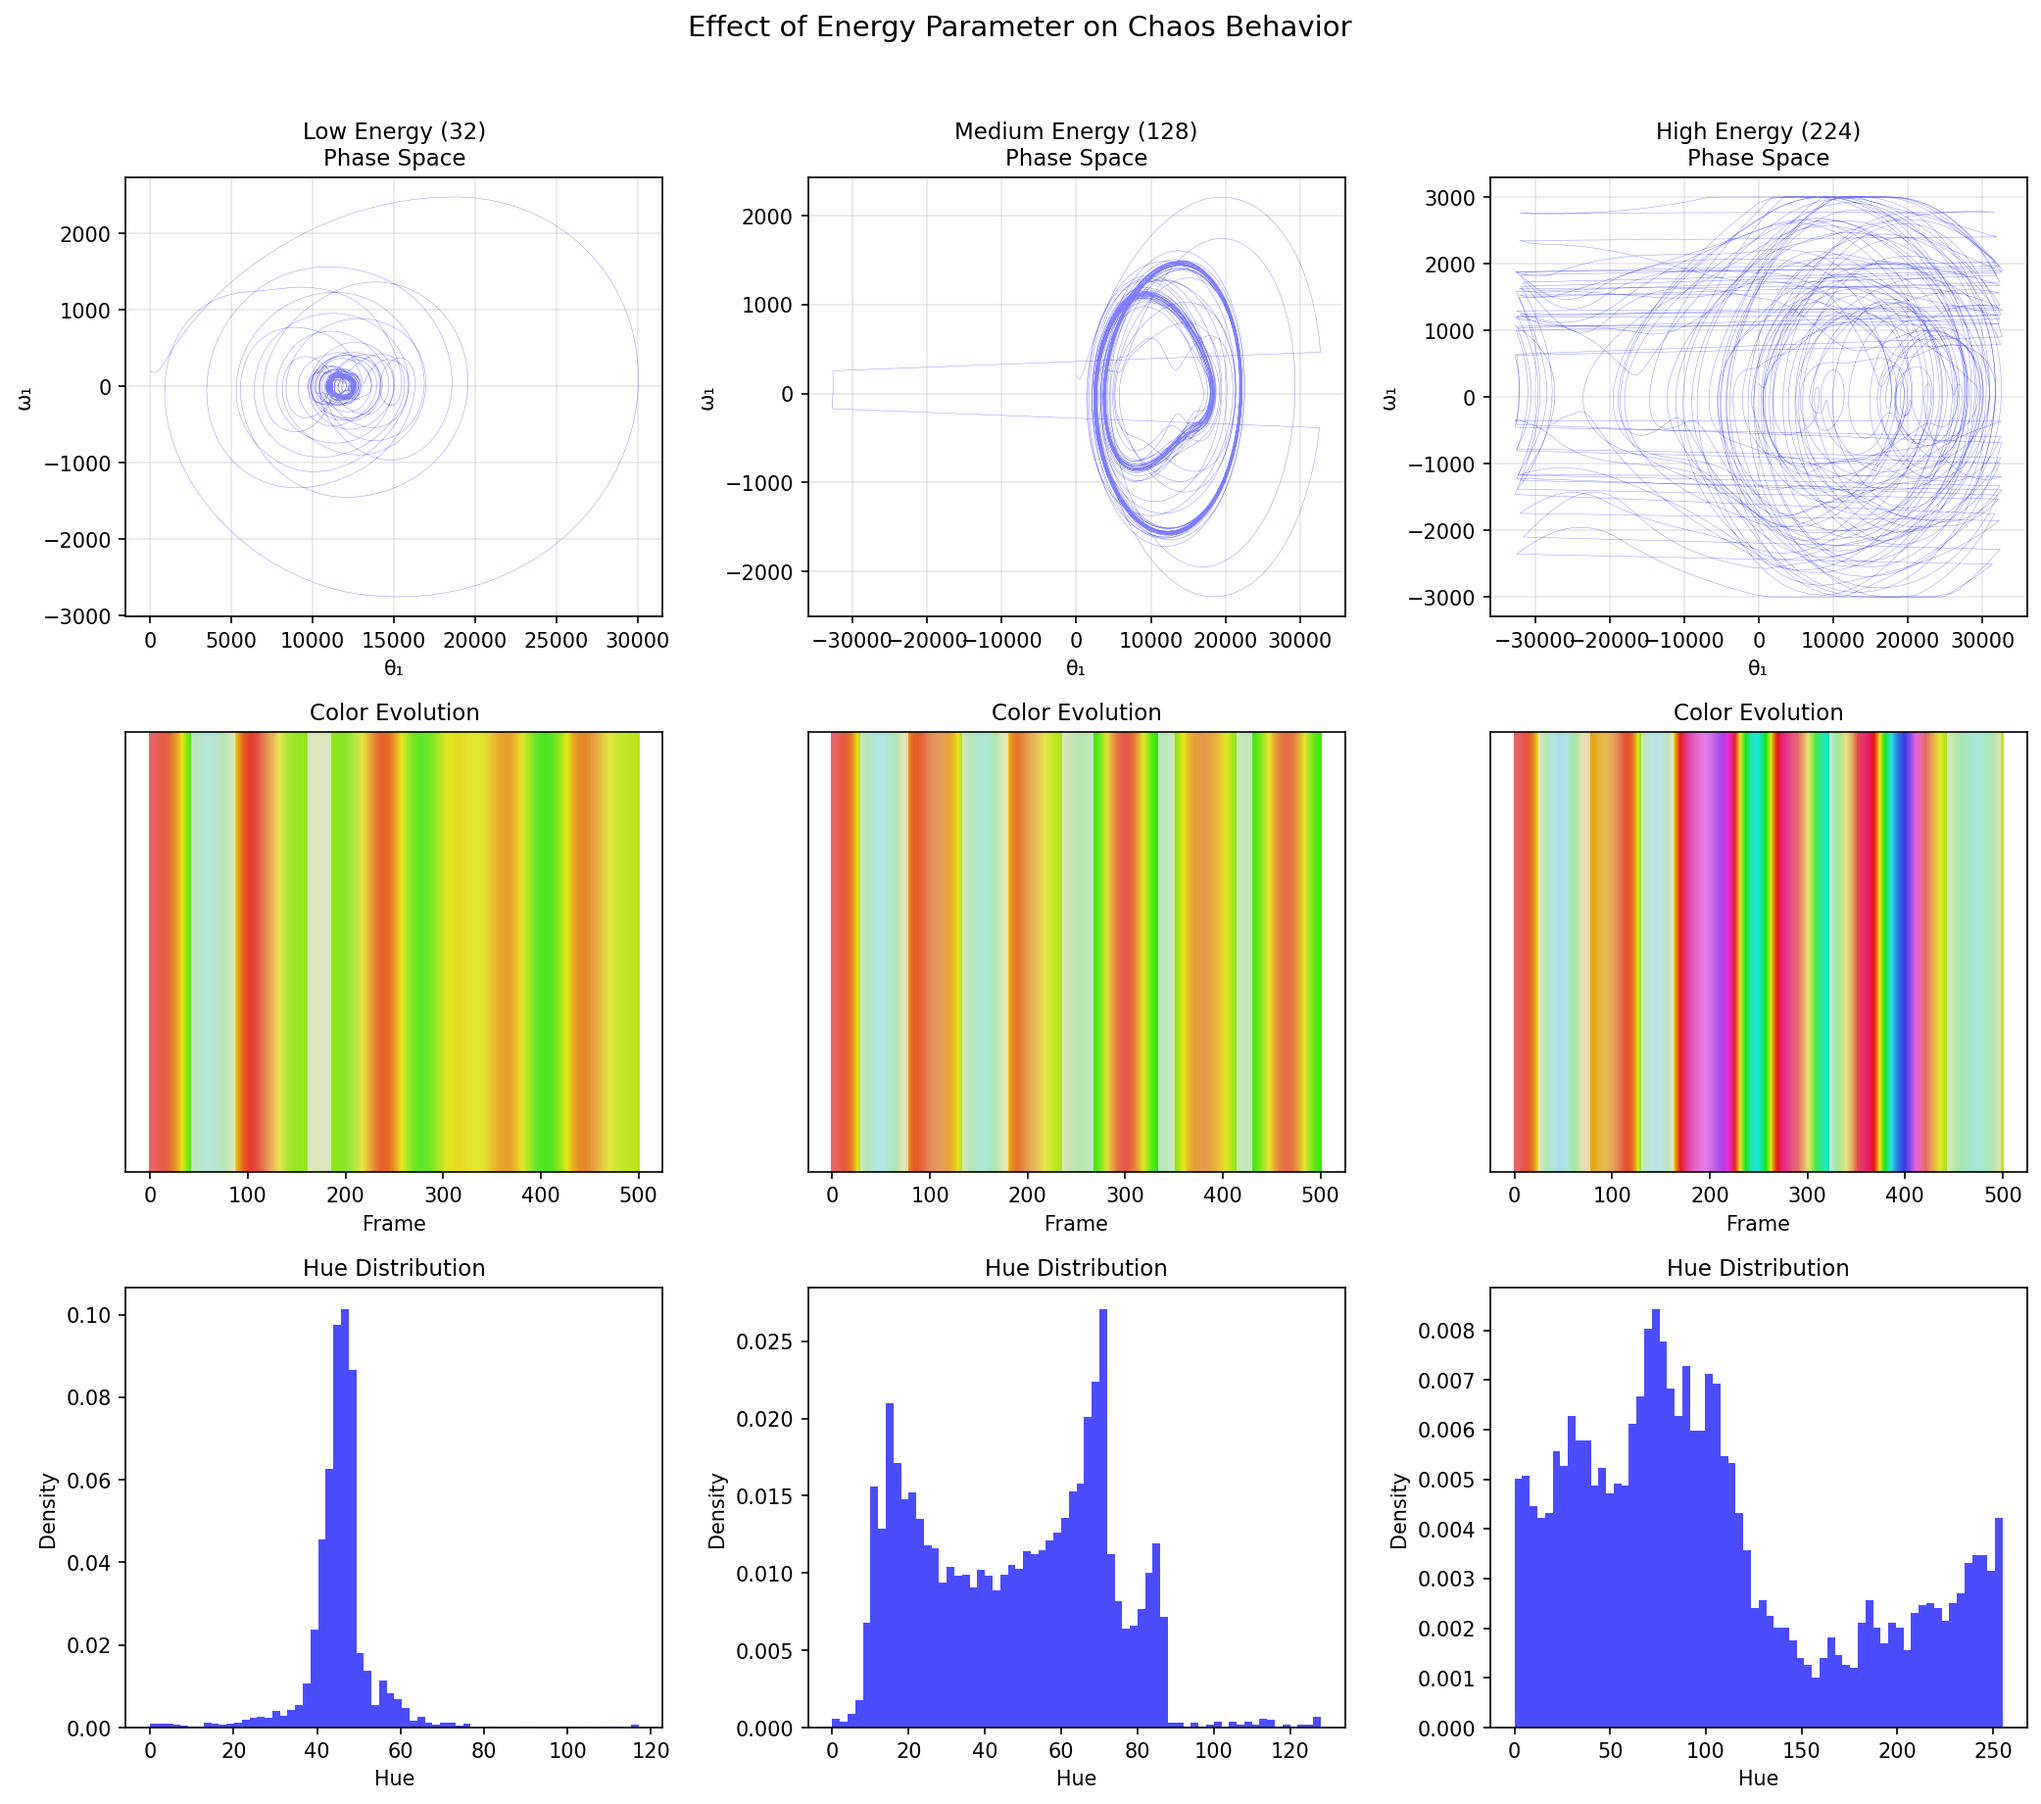
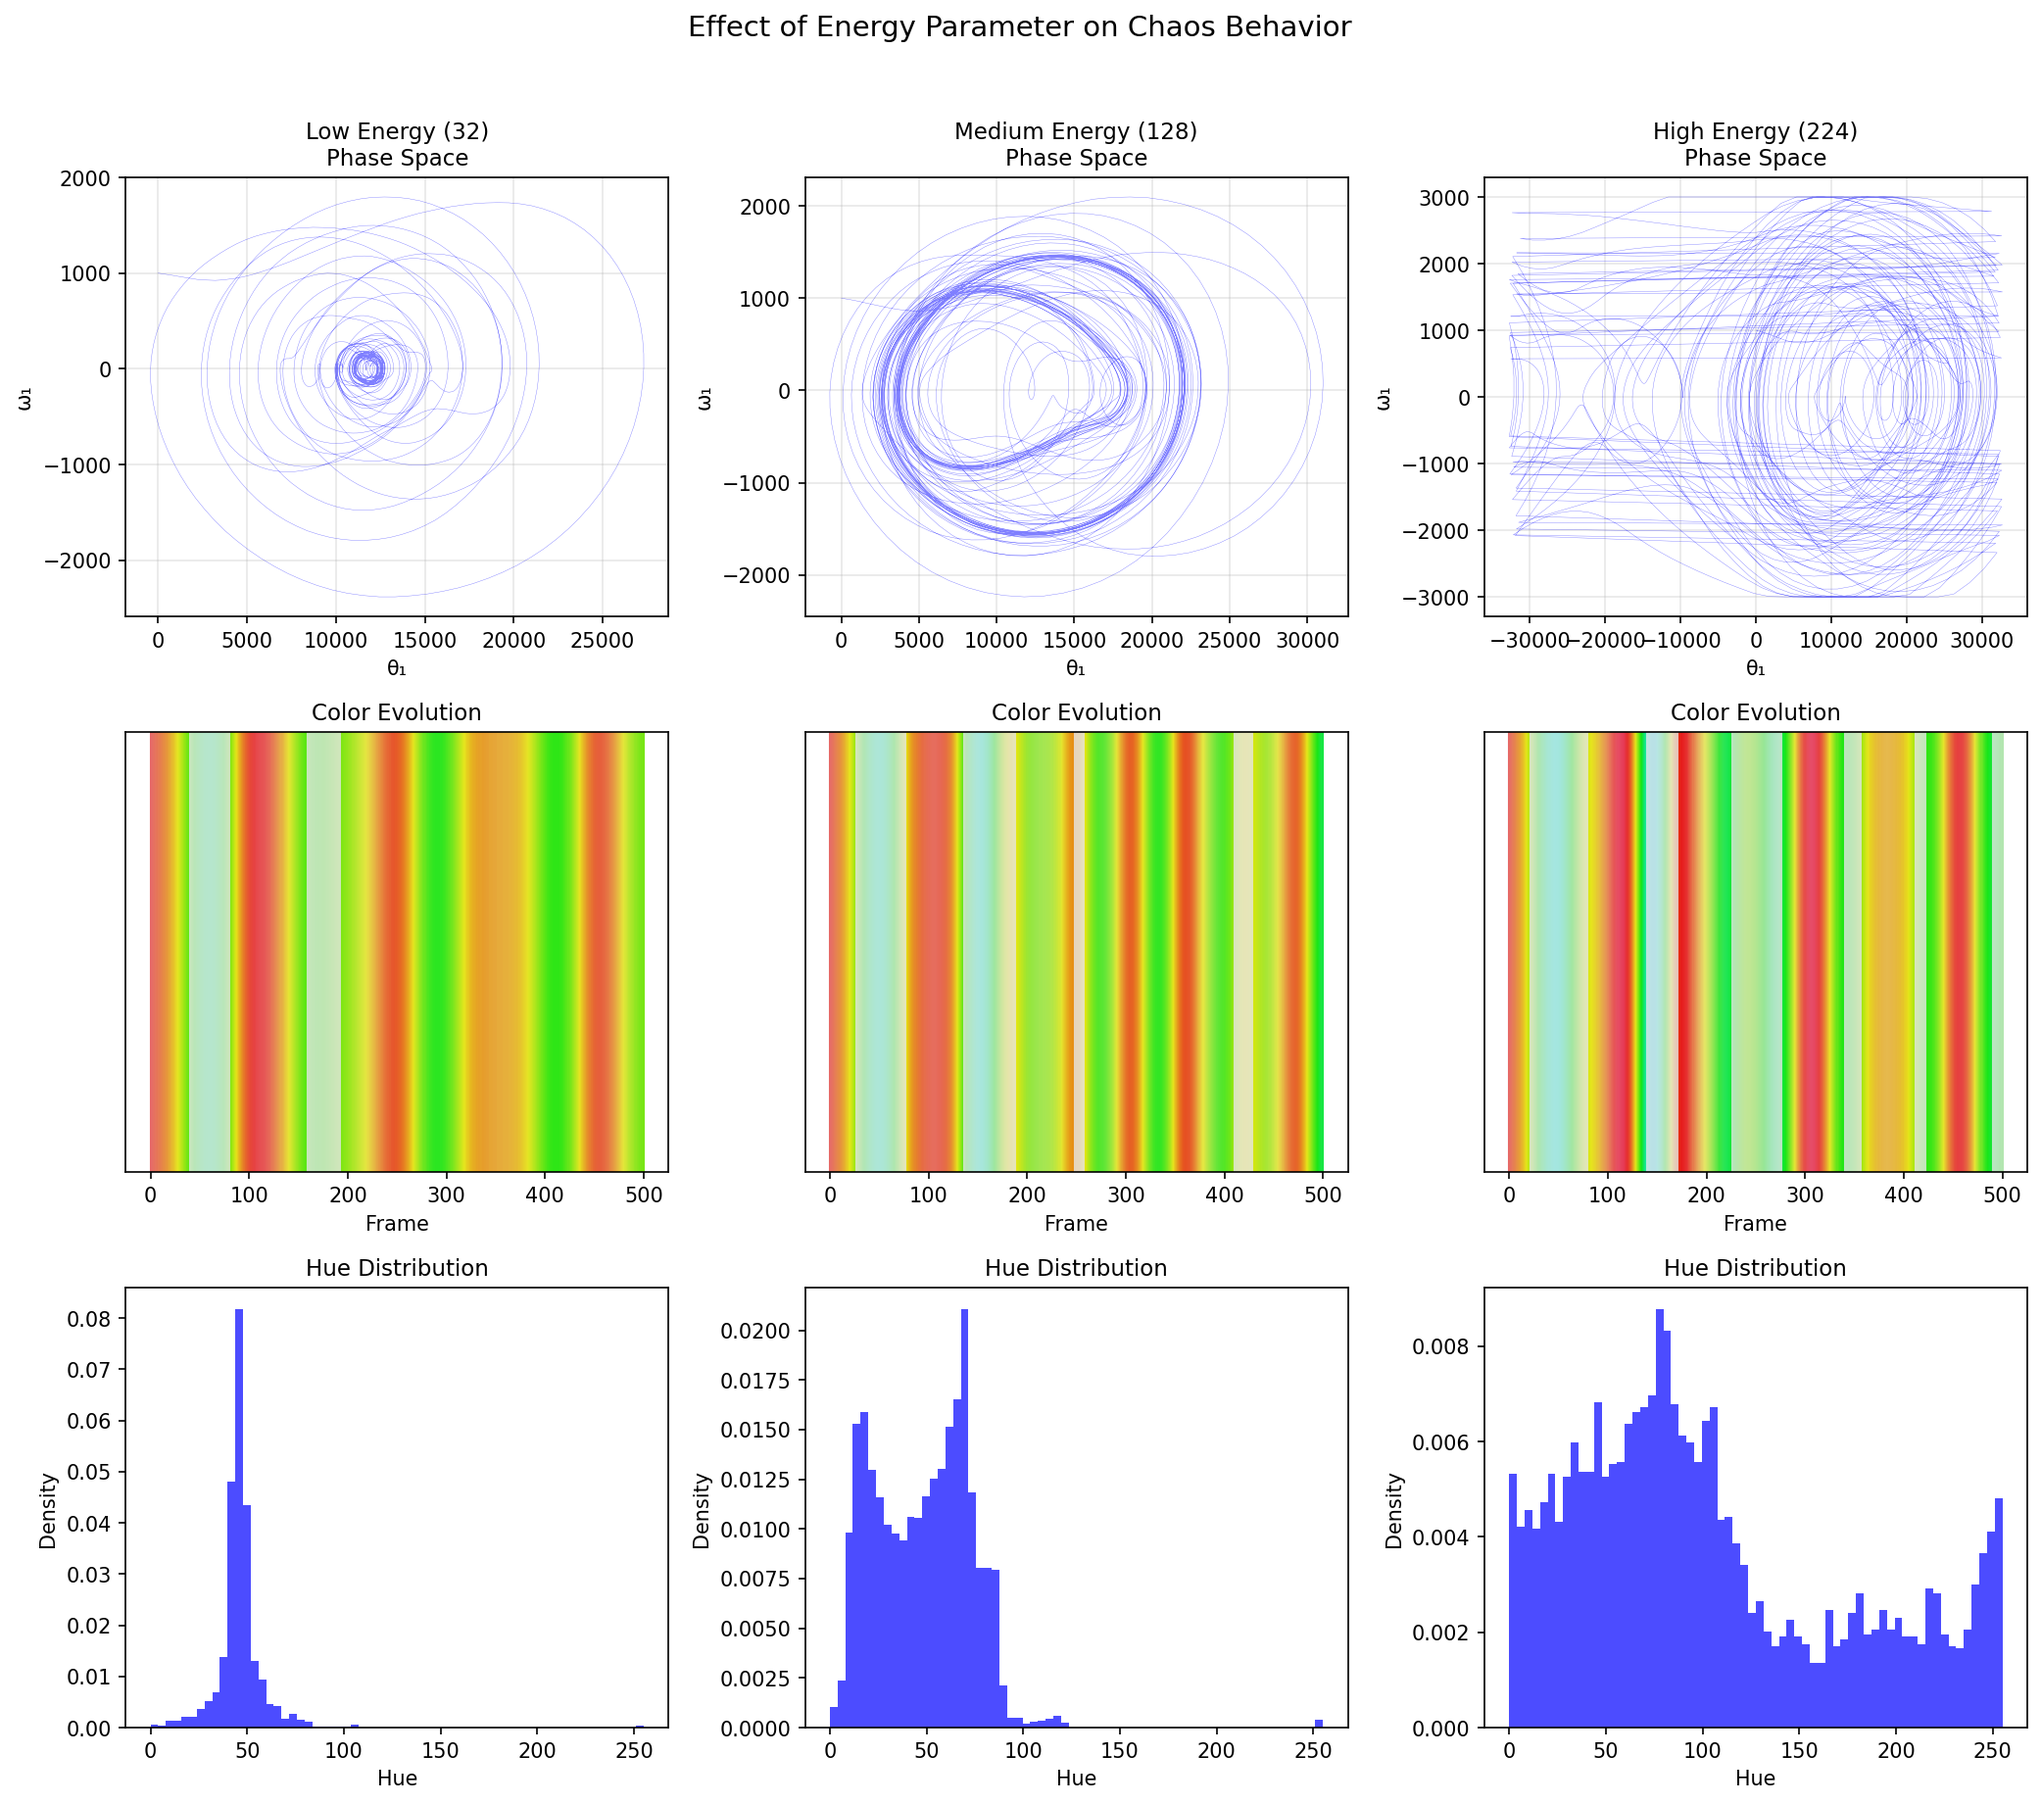
Increase initial velocities for full phase space exploration
The default omega1=200 and omega2=150 caused the system to get trapped
in half the phase space (hue 0-128 only). Increasing to omega1=1000
and omega2=800 ensures the chaotic attractor explores the full hue
range (0-255) from startup.

Regenerated all visualization diagrams showing full color coverage.

diff --git a/hw/hank/emisar-d4k-3ch/hwdef.c b/hw/hank/emisar-d4k-3ch/hwdef.c
@@ -373,9 +373,9 @@ bool gradual_tick_auto3(uint8_t gt) {
 
 // State variables for coupled oscillator chaos
 static int16_t chaos_theta1 = 0;      // hue position (scaled, wraps at 65536)
-static int16_t chaos_omega1 = 200;    // hue angular velocity
+static int16_t chaos_omega1 = 1000;   // hue angular velocity (higher for full phase space exploration)
 static int16_t chaos_theta2 = 0;      // saturation oscillator
-static int16_t chaos_omega2 = 150;    // saturation velocity
+static int16_t chaos_omega2 = 800;    // saturation velocity (higher for more dynamic behavior)
 
 // Convert triangle_wave output (0-255) to signed (-128..127)
 static inline int8_t signed_wave(uint8_t phase) {

diff --git a/tools/chaos_simulation.py b/tools/chaos_simulation.py
@@ -114,9 +114,9 @@ def simulate_chaos(n_steps, energy=128, initial_state=None):
     if initial_state is None:
         state = {
             'theta1': 0,
-            'omega1': 200,
+            'omega1': 1000,   # higher for full phase space exploration
             'theta2': 0,
-            'omega2': 150
+            'omega2': 800     # higher for more dynamic behavior
         }
     else:
         state = initial_state.copy()
